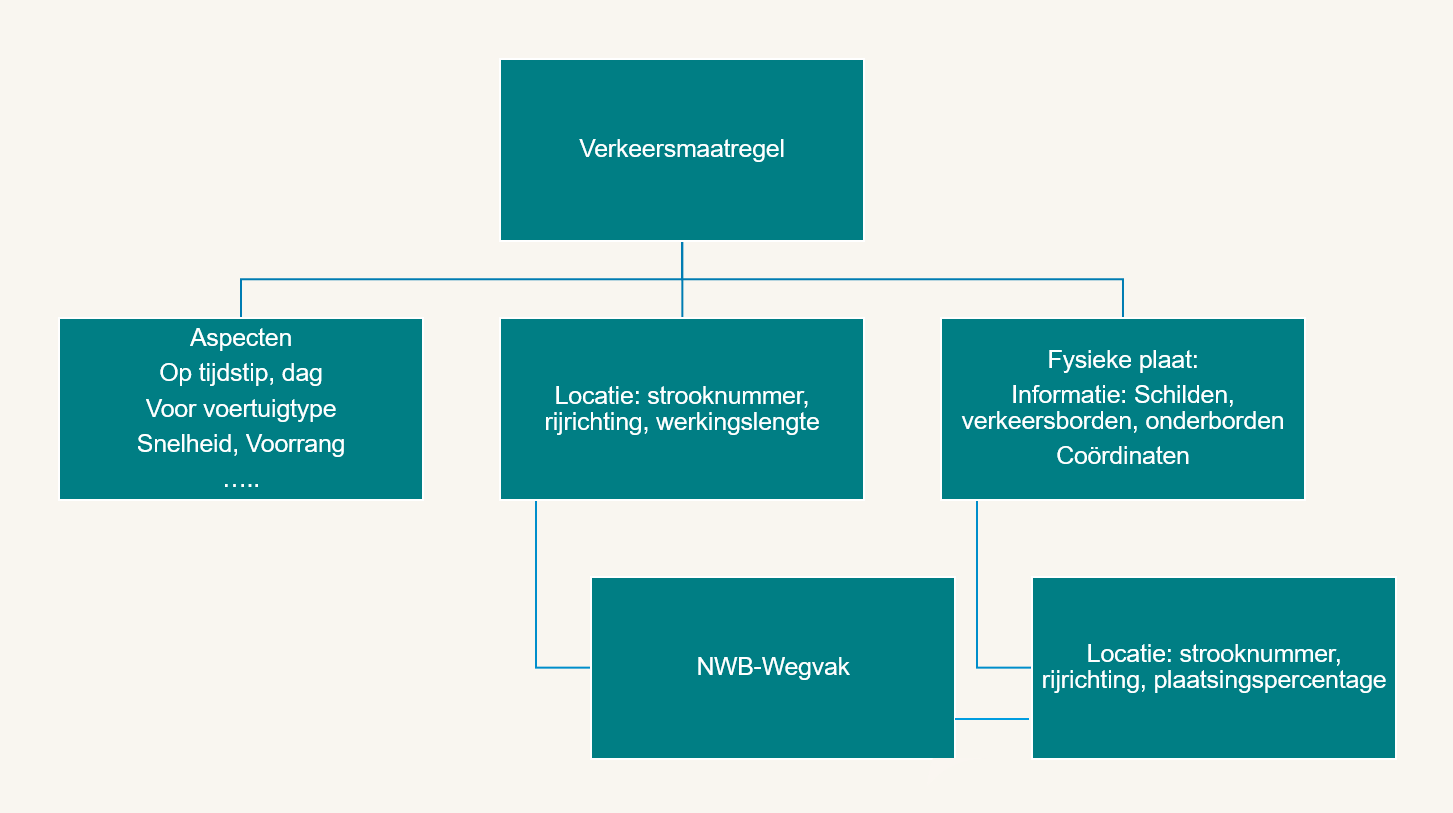
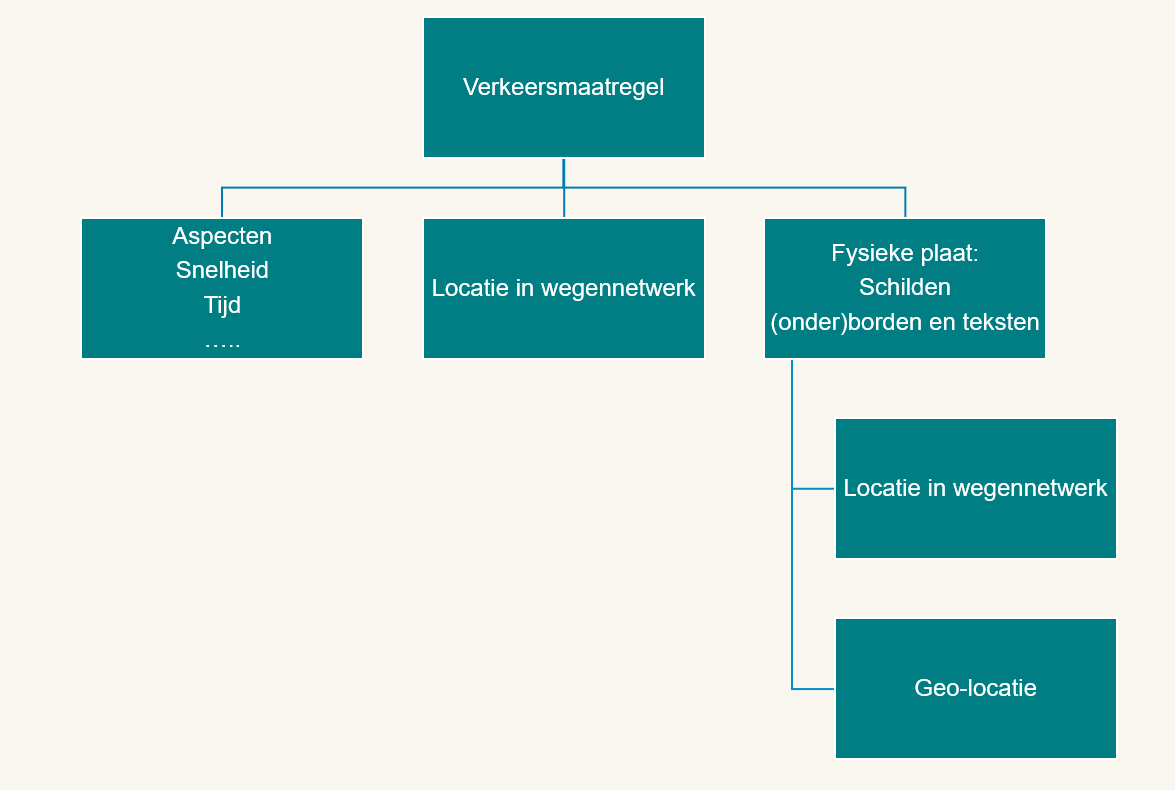
wip documentation

diff --git a/docs/datamanagementguide/index.html b/docs/datamanagementguide/index.html
@@ -49,7 +49,7 @@
        Pas de namen van de bestanden aan en de inhoud.  -->
   <section data-format="markdown" data-include="hoofdstukken/1.md"></section> 
   <section data-format="markdown" data-include="hoofdstukken/2.md"></section>
-  <section data-format="markdown" data-include="3.md"></section>
+  <section data-format="markdown" data-include="hoofdstukken/3.md"></section>
   <section id="index"></section>
   <section class="">
     <h2>Index van eisen</h2>

diff --git a/docs/howtodatamanagement/hoofdstukken/3.md b/docs/howtodatamanagement/hoofdstukken/3.md
@@ -1,8 +1,8 @@
-# Fysieke platen
+# Verkeersbord
 
 
 ## Fysieke plaat
-De fysieke uiting van [=verkeersmaatregelen=] zijn de [=fysieke platen=] die de weggebruiker buiten aantreft. Op een plaat staan "iconen", in de vorm van [=verkeersborden=] en/of [=onderborden=] die elk een eigen waarde kunnen hebben. De [=verkeersborden=] zijn in het informatiemodel de afbeeldingen (InformatieObjecten) zoals bekend uit de RVV 1990, daarom gebruiken we voor het concreet aan te raken object buiten de term Fysieke Plaat, ook al wordt dit in de volksmond ook het verkeersbord genoemd.
+De fysieke uiting van [=verkeersmaatregelen=] zijn de [=fysieke platen=] die de weggebruiker buiten aantreft. Op een plaat staan "iconen", in de vorm van [=verkeersborden=] en/of [=onderborden=] die elk een eigen waarde kunnen hebben. De [=verkeersborden=] zijn in het informatiemodel de afbeeldingen (InformatieObjecten) zoals bekend uit de [=RVV 1990=], daarom gebruiken we voor het concreet aan te raken object buiten de term Fysieke Plaat, ook al wordt dit in de volksmond ook het verkeersbord genoemd.
 De informatie-elementen uit het informatiemodel zijn zo opgebouwd, dat alle informatie over de inhoud van het bord die nodig is voor het bestellen van een nieuw bord kan worden afgeleid. 
 
 <figure>
@@ -12,7 +12,7 @@ De informatie-elementen uit het informatiemodel zijn zo opgebouwd, dat alle info
 
 
 
-### Iconen op de plaat
+### Samenstellen fysieke plaat
 
 
 #### Rooster
@@ -25,34 +25,40 @@ De positie van een icoon op de plaat wordt bepaald aan de hand van een code. Ond
 <figcaption>De codes voor het vastleggen van de positie van iconen op de fysieke plaat; waarbij uitbreidingen naar links en naar beneden mogelijk zijn door door te nummeren / het alfabet te volgen.</caption>
 </figure>
 
+Zie de [Gids voor Databaheerder](https://docs.crow.nl/verkeersborden/howtodatamanagement/#fysieke-platen-samenstellen) voor voorbeelden. 
 
 
+#### Schilden
 
-##### Afbeeldingen in een tekst
+
+#### Iconen
+Op een plaat staan "iconen", in de vorm van [=verkeersborden=] en/of [=onderborden=] op basis van de [=RVV 1990=] die elk een eigen waarde kunnen hebben.
 
 <div class="issue" data-number="331"></div>
 
 
 
 
-## Locatie fysieke plaat
+## Geo-locatie fysieke plaat
 
-### Plaat-X,Y,Z
-De fysieke plaat heeft een x,y en z-coördinaat, waarbij uitgegaan is van een punt midden op de plaat aan de leeszijde.
+### WGS84
+De fysieke plaat heeft een geolocatie op basis van WGS84, waarbij voor de hoogte uitgegaan is van een punt midden op de plaat aan de leeszijde.
 
 
+### Draairichting
+De fysieke plaat heeft een draairichting in de vorm van een hoek in het 360 graden stelsel.
 
-### Plaat-Wegvak
+## Netwerklocatie fysieke plaat
 
-#### Rijrichting
+### Rijrichting
 Het verkeersbord hoort altijd bij één wegvak en heeft betrekking op rijrichting Heen, of Terug, of het bord is parallel geplaatst ten opzichte van de weg, bijvoorbeeld bij parkeervakken, dan is de rijrichting: loodrecht
 
-#### Strooknummer
+### Strooknummer
 Een bord kan specifiek geplaatst zijn boven een rijstrook, in dat geval wordt het strooknummer aangeduid. 
 
-#### Plaatsingspercentage
+### Plaatsingspercentage
 
-Het verkeersbord is geplaatst op een percentager van het NWQB-Wegvak, gerekend vanaf het startpunt van de geometrische string. Merk op dat dit tegengesteld kan zijn aan de gebruikte rijrichting. 
+Het verkeersbord is geplaatst op een percentage van het NWB-Wegvak, gerekend vanaf het startpunt van de geometrische string. Merk op dat dit tegengesteld kan zijn aan de gebruikte rijrichting. 
 
 
 

diff --git a/docs/howtodatamanagement/hoofdstukken/1.md b/docs/howtodatamanagement/hoofdstukken/1.md
@@ -18,15 +18,15 @@ Het model werkt op basis van de volgende logica:
 
 1. Centraal staat de verkeersmaatregel (inclusief waarschuwingen) die men de weggebruiker wil mee geven. 
 
-2. Bij de verkeersregel kan men specten opgeven, waarbij sommige sepcifiek bij een type verkeersmaatregel horen, zoals snelheid en voorrang, en andere gebruikt kunnen worden voor meerdere soorten verkeersmaatregelen, zoals of een bepaalde tijd waarin de regel geldig is, of een bepaald voertuigtype waarvoor de regel geldt. 
+2. Bij de verkeersregel kan men specten opgeven, waarbij sommige specifiek bij een type verkeersmaatregel horen, zoals snelheid en voorrang, en andere gebruikt kunnen worden voor meerdere soorten verkeersmaatregelen, zoals of een bepaalde tijd waarin de regel geldig is, of een bepaald voertuigtype waarvoor de regel geldt. 
 
-3. De verkeersmaatregel geldt op een bepaalde locatie, met daarbij van grof naar fijn:
+3. De verkeersmaatregel geldt op een bepaalde locatie in het wegennetwerk, met daarbij van grof naar fijn:
   * Op één of meerdere [=nwb-wegvakken=]. 
   * In één [=rijrichting=] van het [=nwb-wegvak=]
   * Op één strook
   * De werkingslengte kan beperkt zijn tot een deel van het [NWB-wegvak], de [=rijrichting=] of de [=rijstrook=]  bijvoorbeeld tussen 10% en 30% van het nwb-wegvak, gezien vanaf een beginpunt.
 
-4. De [=verkeersmaatregel=] kan zich uiten in [=fysieke platen=] die buiten geplaatst zijn, met daarop informatie in de vorm van borden en/of onderborden en aanduidingen zoals zone, herhaling of schildkleur. 
+4. De [=verkeersmaatregel=] kan zich uiten in één of meerdere [=fysieke platen=] die buiten geplaatst zijn, met daarop informatie in de vorm van borden en/of onderborden en aanduidingen zoals zone, herhaling of schildkleur. 
 
 
 ## Verkeerskundige datasets maken

diff --git a/docs/howtodatamanagement/hoofdstukken/samenvatting.md b/docs/howtodatamanagement/hoofdstukken/samenvatting.md
@@ -2,4 +2,4 @@
 
 Voorliggende documentatie betreft de gids voor databeheer, bedoeld voor assetdatabeheerders en wegbeheerders. In de gids voor databeheer wordt het samenstellen en beheren van verkeerskundige informatie stapsgewijs beschreven, met als doel de toepassing te ondersteunen voor beginnende gebruikers. Om op eenvoudige wijze verkeerskundige informatie te kunnen samenstellen en beheren, is een applicatie nodig die het geheel beter visueel ondersteunt. Dat is buiten de scope van het informatiemodel. Daarom is deze gids geschikt voor databeheerders met technische kennis op het gebied van code lezen en schrijven, en voor softwareontwikkelaars.
 
-Voor een overzicht van alle documentatie van het Informatiemodel Verkeerstekens wordt verwezen naar de [Reeadme op GitHub](https://github.com/Stichting-CROW/verkeersborden/blob/main/README.md).
+Voor een overzicht van alle documentatie van het Informatiemodel Verkeerstekens wordt verwezen naar de [Readme op GitHub](https://github.com/Stichting-CROW/verkeersborden/blob/main/README.md).

diff --git a/docs/howtodatamanagement/hoofdstukken/2.md b/docs/howtodatamanagement/hoofdstukken/2.md
@@ -1,4 +1,4 @@
-# Locatie
+# Verkeersmaatregel
 
 
 ## NWB-Wegennetwerk 
@@ -10,7 +10,7 @@ Het netwerk is als volgt opgebouwd;
 * Wanneer een weg meerdere rijbanen heeft, wat vooral het geval is bij Rijkswegen, worden deze rijbanen als aparte NWB-Wegvakken in het bestand verwerkt.
 * Het Nationaal Wegen Bestand is nog niet tot op het niveau van een [=rijstrook=] of [=wegdelen=] gedifferentieerd; een rijbaan met meerdere rijstroken, of een weg met een trottoir, is als één wegvak opgenomen in het NWB. 
 
-## Locatie verkeersmaatregel
+## Netwerklocatie verkeersmaatregel
 
 Onderstaande afbeelding geeft het schematisch weer hoe de locatie van een verkeersmaatregel vastgelegd wordt. 
 
